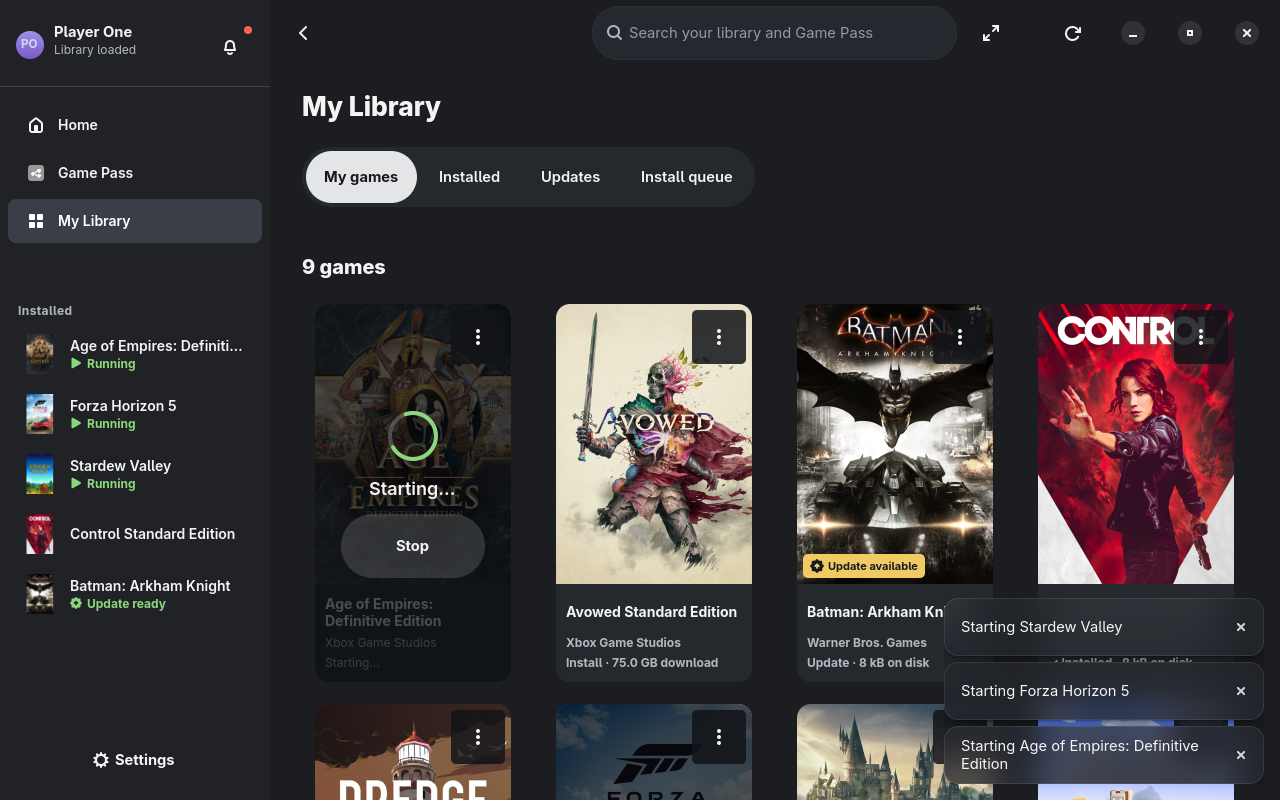
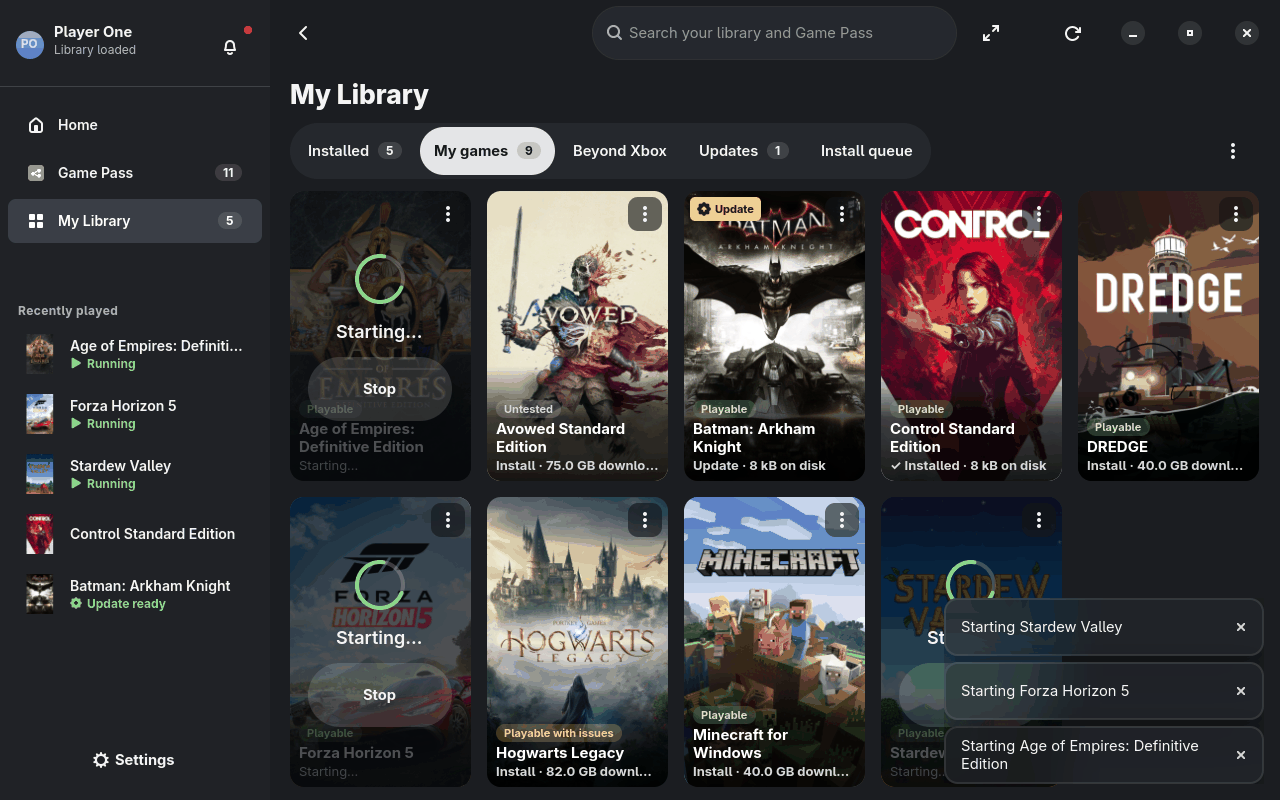
Prepare Ferestre 0.1.27 with runtime 11.0.20261124.1
Release notes, docs and new screenshots. The details no longer repeat the
compatibility label and summary as chips, which stretched them all.

Claude-Session: https://claude.ai/code/session_01MxW3bUCA84YQbRn5qddvXz

diff --git a/tools/readme-screenshots.py b/tools/readme-screenshots.py
@@ -18,8 +18,11 @@ What it does
         compact-sidebar.png    the icon rail with the account menu open
         home-ultrawide.png     Home at 3440x1000 (a 32:9-style wide window)
         already-running.png    the "<title> is already running" dialog
+        library.png            My Library with each game's compatibility label
+        game-details.png       a game's details, with its known issues
+        launch-settings.png    the launch settings editor
 
-    All are 1280x800 except home-ultrawide.png.
+    All are 1280x800 except home-ultrawide.png and the cropped game-details.png.
 
 How to run it
     export PATH=$HOME/.cargo/bin:$PATH
@@ -104,6 +107,7 @@ GAMEPASS = ["9MSVPJCHHRPR", "9PJTHRNVH62H", "C2KDNLT2H7DM", "9PP5G1F0C2B6", "9N6
 DOWNLOAD_GB = {"9MSVPJCHHRPR": 75, "9MT5NJ5W7B8Z": 82, "9NNX1VVR3KNQ": 118}
 RUNNING = "9PL1J8PJKH29"  # Control, for the running, Stop and already-running shots
 INSTALL = "9MSVPJCHHRPR"  # Avowed, for the install dialog
+DETAILS = "9MT5NJ5W7B8Z"  # Hogwarts Legacy, which plays with issues
 FOCUS = "9NJWTJSVGVLJ"  # Age of Empires, the focused card in fullscreen
 
 SHOTS = {
@@ -117,7 +121,14 @@ SHOTS = {
     "compact-sidebar": (1280, 800, {"compact": True}, False),
     "home-ultrawide": (3440, 1000, {}, False),
     "already-running": (1280, 800, {}, False),
+    "library": (1280, 800, {}, False),
+    "game-details": (1280, 800, {}, False),
+    "launch-settings": (1280, 800, {}, False),
 }
+
+# The virtual screen has a desktop monitor's size. Fullscreen pictures are of a
+# handheld, whose layout follows the screen's width in millimetres.
+HANDHELD_SCREEN = "int gdk_monitor_get_width_mm(void *monitor) { (void)monitor; return 155; }\n"
 
 CLIENT = r'''#!/usr/bin/env python3
 # Fake xodus-cli: one synthetic signed-in account, nothing real.
@@ -299,6 +310,9 @@ def prepare_scratch(repo, args):
     (scratch / "template/.fixture/lib").mkdir()
     subprocess.run(["cc", "-shared", "-fPIC", str(scratch / "sdl.c"), "-o",
                     str(scratch / "template/.fixture/lib/libSDL2-2.0.so.0")], check=True)
+    write(scratch / "screen.c", HANDHELD_SCREEN)
+    subprocess.run(["cc", "-shared", "-fPIC", str(scratch / "screen.c"), "-o",
+                    str(scratch / "template/.fixture/lib/handheld-screen.so")], check=True)
     write(scratch / "passwd", "root:x:0:0:root:/root:/bin/sh\n"
           f"player:x:{os.getuid()}:{os.getgid()}:Player One:{DEMO_HOME}:/bin/sh\n"
           "nobody:x:65534:65534:Nobody:/:/usr/bin/nologin\n")
@@ -504,6 +518,7 @@ class Scene:
         env["NO_PROXY"] = env["no_proxy"] = ""
         if SHOTS[self.shot][3]:
             env["LD_LIBRARY_PATH"] = str(f / "lib")
+            env["LD_PRELOAD"] = str(f / "lib/handheld-screen.so")
             env["FERESTRE_TEST_PAD_FILE"] = str(f / "pad")
         return env
 
@@ -512,7 +527,7 @@ class Scene:
         (self.fixture / "pad-next").write_bytes(struct.pack("<Hhhhh2xii", buttons, 0, 0, 0, 0, kind, 1))
         (self.fixture / "pad-next").replace(self.fixture / "pad")
 
-    def capture(self, wait=1.5):
+    def capture(self, wait=1.5, crop=None):
         """The virtual screen, through KWin's ScreenShot2."""
         time.sleep(wait)
         import gi
@@ -549,7 +564,10 @@ class Scene:
         raw = "BGRA" if meta.get("format", 4) in (4, 5, 6) else "RGBA"
         image = Image.frombuffer("RGBA", (meta["width"], meta["height"]), data, "raw", raw, meta["stride"], 1)
         out = self.scratch / "out" / f"{self.shot}.png"
-        image.convert("RGB").save(out)
+        image = image.convert("RGB")
+        if crop:
+            image = image.crop(crop)
+        image.save(out)
         print("captured", out.name, meta["width"], meta["height"], flush=True)
 
     def start(self):
@@ -575,8 +593,8 @@ class Scene:
         s = self.s
         if SHOTS[self.shot][2].get("fullscreen"):
             # Fullscreen has a row of section buttons instead of the sidebar.
-            s.click(self.wait(lambda r: next(iter(s.find_all(r, role="button", name="My Library")), None),
-                              "the My Library tab"))
+            s.click(self.wait(lambda r: next(iter(s.find_all(r, role="button", name="My games")), None),
+                              "the My games tab"))
         else:
             s.select_in_list(self.frame, "My Library")
         self.wait(lambda _: s.row_button(self.frame, self.names[UPDATE], "Update"), "the library to settle")
@@ -613,6 +631,7 @@ class Scene:
     def scene_library_handheld(self):
         self.library()
         time.sleep(2)
+        self.dismiss_notifications()
         self.driver().seek(f"{self.names[FOCUS]} · Play")
         self.capture(2)
 
@@ -665,7 +684,10 @@ class Scene:
         self.library()
         driver = self.driver()
         driver.seek(f"{name} · Install")
-        driver.press(0, lambda root: any(t.startswith(f"Install {name}") for t in s.texts(root)),
+        # Its details open first, with Install selected.
+        driver.press(0, lambda root: s.find_all(root, role="button", name=f"Install {name}"), "the details")
+        time.sleep(2)
+        driver.press(0, lambda root: f"Install {name}?" in s.texts(root),
                      "the install dialog")
         self.capture(3)
 
@@ -683,7 +705,7 @@ class Scene:
                     break
                 except s.Failure:
                     pass
-        self.capture(1.5)
+        self.capture(4)  # past the start animation, which covers the window
 
     def alerts(self):
         s, found = self.s, []
@@ -727,6 +749,29 @@ class Scene:
         else:
             raise s.Failure("no already-running dialog")
         self.capture(2.5)
+
+
+    def scene_library(self):
+        self.library()
+        time.sleep(2)
+        self.dismiss_notifications()
+        self.capture(2)
+
+    def menu_item(self, pid, item):
+        s = self.s
+        self.library()
+        s.click_named(self.frame, f"More actions for {self.names[pid]}")
+        time.sleep(1)
+        s.click_named(self.app, item)
+
+    def scene_game_details(self):
+        self.menu_item(DETAILS, "Game details")
+        # Without the network the catalog's part of the page is an error line.
+        self.capture(5, crop=(170, 20, 1110, 570))
+
+    def scene_launch_settings(self):
+        self.menu_item(RUNNING, "Edit launch settings")
+        self.capture(3)
 
 
 def main():

diff --git a/crates/ferestre-gui/src/details_ui.rs b/crates/ferestre-gui/src/details_ui.rs
@@ -220,7 +220,12 @@ pub fn open(
 
     // "v1 · 2 GB · Playable", then a paragraph about the runtime.
     let (state, runtime) = known.split_once("\n\n").unwrap_or((known, ""));
-    let chips: Vec<String> = state.split("  ·  ").map(str::to_string).collect();
+    // The compatibility section below says these in full.
+    let chips: Vec<String> = state
+        .split("  ·  ")
+        .filter(|chip| *chip != report.label() && *chip != report.summary)
+        .map(str::to_string)
+        .collect();
     overview.append(&chip_box(&chips));
     if !runtime.is_empty() {
         let line = gtk::Box::new(gtk::Orientation::Horizontal, 8);

diff --git a/README.md b/README.md
@@ -6,23 +6,29 @@ Play compatible **Xbox PC and Microsoft Store games on Linux** using your Micros
 
 <br clear="left">
 
-**[Download the AppImage](https://github.com/icex/ferestre/releases/download/v0.1.26/ferestre-0.1.26-x86_64.AppImage)** · [Compatible games](docs/COMPATIBILITY.md#the-matrix) · [Quick start](#quick-start) · [Report a problem](https://github.com/icex/ferestre/issues)
+**[Download the AppImage](https://github.com/icex/ferestre/releases/download/v0.1.27/ferestre-0.1.27-x86_64.AppImage)** · [Compatible games](docs/COMPATIBILITY.md#the-matrix) · [Quick start](#quick-start) · [Report a problem](https://github.com/icex/ferestre/issues)
 
 ![Ferestre's Home: a featured-game carousel, quick links and a Jump back in shelf, with recent games and their status in the sidebar](docs/screenshots/home.png)
 
 <table>
   <tr>
-    <td width="50%"><img src="docs/screenshots/library-handheld.png" alt="My Library in the fullscreen handheld layout, with Xbox controller hints and an Update available badge"><br><strong>Play from the couch with a controller</strong></td>
+    <td width="50%"><img src="docs/screenshots/library-handheld.png" alt="My games in the fullscreen handheld layout, with a top bar of tabs, compatibility labels, an Update badge and Xbox controller hints"><br><strong>Play from the couch with a controller</strong></td>
     <td width="50%"><img src="docs/screenshots/running-game.png" alt="A running game's card with Resume and Stop"><br><strong>Switch between running games</strong></td>
   </tr>
   <tr>
-    <td width="50%"><img src="docs/screenshots/install-game.png" alt="The install dialog with the download size, library folder and free space, over the blurred library"><br><strong>Choose where each game installs</strong></td>
-    <td width="50%"><img src="docs/screenshots/notifications.png" alt="Three notifications stacked in the corner of the window"><br><strong>See every result at once</strong></td>
+    <td width="50%"><img src="docs/screenshots/install-game.png" alt="The install dialog with the download size, library folder and free space"><br><strong>Choose where each game installs</strong></td>
+    <td width="50%"><img src="docs/screenshots/notifications.png" alt="My Library with three games starting and notifications stacked in the corner of the window"><br><strong>See every result at once</strong></td>
+  </tr>
+  <tr>
+    <td width="50%"><img src="docs/screenshots/library.png" alt="My Library with a compatibility label on every game: Playable, Playable with issues or Untested"><br><strong>See how well each game runs</strong></td>
+    <td width="50%"><img src="docs/screenshots/game-details.png" alt="A game's details with its compatibility label and its known issues as a warning"><br><strong>Know the issues before you install</strong></td>
   </tr>
 </table>
 
 <details>
-<summary>More screenshots: Stop confirmation, compact sidebar, a game already running, ultrawide</summary>
+<summary>More screenshots: launch settings, Stop confirmation, compact sidebar, a game already running, ultrawide</summary>
+
+![The launch settings editor and its tabs](docs/screenshots/launch-settings.png)
 
 ![In-app Stop confirmation with Cancel selected by the controller](docs/screenshots/stop-confirmation.png)
 
@@ -71,7 +77,7 @@ In **Accounts**, choose the Microsoft account supplying purchases/Game Pass (**S
 2. Choose a game, select **Install**, choose a library folder and confirm.
 3. Follow progress in **My Library → Install queue**, or with the **Downloads** button in the sidebar. Choose **Play** when installation finishes.
 
-Check the [compatibility list](docs/COMPATIBILITY.md#the-matrix) before a large download. Ferestre supports compatible **GDK/MSIXVC** games; many other Store apps use UWP/Appx/Msix formats that are currently unsupported. Game Pass access depends on your subscription, region and the title still being included. Microsoft checks the licence when installing or launching.
+Check the label on the game's tile (**Playable**, **Playable with issues**, **Untested** or **Not playable**) before a large download; **Game details** says what was tested and lists known issues. The [compatibility list](docs/COMPATIBILITY.md#the-matrix) has every tested game. Ferestre supports compatible **GDK/MSIXVC** games; many other Store apps use UWP/Appx/Msix formats that are currently unsupported. Game Pass access depends on your subscription, region and the title still being included. Microsoft checks the licence when installing or launching.
 
 ## Quick guides
 
@@ -131,7 +137,7 @@ Choose a suitable rendering resolution in the game. The runtime includes 4K and 
 
 ### Change a game's launch settings
 
-Open the game's **More actions → Edit launch settings**. Settings such as native Wayland, Gamescope, HDR, the performance profile and the runtime's compatibility switches appear as switches and menus, each with a line saying what it does; other environment variables can be added below them. Your changes are saved as your own copy of the game's recipe. **Reset to defaults** sets that copy aside as a `.toml.bak` file and returns the game to the settings Ferestre ships or detects.
+Open the game's **More actions → Edit launch settings**. The tabs hold native Wayland, Gamescope, HDR, the performance profile, compatibility and upscaling switches and the runtime, each with a line saying what it does; other environment variables can be added below them. Your changes are saved as your own copy of the game's recipe. **Reset to defaults** sets that copy aside as a `.toml.bak` file and returns the game to the settings Ferestre ships or detects.
 
 ### Move a game or add it to Steam
 
@@ -208,7 +214,7 @@ Use `./ferestre.AppImage --help` for all commands. `run` refuses to start a game
 | [Releasing](docs/RELEASING.md) | Release builds and signing |
 | [Debugging notes](notes/) | Technical investigations |
 
-Current releases: **[Ferestre 0.1.26](https://github.com/icex/ferestre/releases/tag/v0.1.26)** and **[runtime 11.0.20261122.2](https://github.com/icex/ferestre/releases/tag/runtime-11.0.20261122.2)**. Read the [0.1.26](docs/RELEASE-0.1.26.md) and [0.1.25](docs/RELEASE-0.1.25.md) release notes for tested scope.
+Current releases: **[Ferestre 0.1.27](https://github.com/icex/ferestre/releases/tag/v0.1.27)** and **[runtime 11.0.20261124.1](https://github.com/icex/ferestre/releases/tag/runtime-11.0.20261124.1)**. Read the [0.1.27](docs/RELEASE-0.1.27.md) and [0.1.26](docs/RELEASE-0.1.26.md) release notes for tested scope.
 
 ## About the project
 

diff --git a/docs/RELEASE-0.1.27.md b/docs/RELEASE-0.1.27.md
@@ -1,0 +1,39 @@
+# Ferestre 0.1.27
+
+Pairs with runtime 11.0.20261124.1. **Settings → Choose default runtime** selects it once it is installed. A game with its own runtime choice keeps it: set it back to the default in **Edit launch settings → Proton** to get this runtime's fixes.
+
+## Steam games
+
+- **Import from Steam** also lists the games Steam installed. **Play** asks Steam to start them, so Steam's Proton, launch options, DRM and cloud saves stay as they are. Steam's files are only read.
+- A Steam shortcut to a script or other Linux program of your own is imported too, and Steam starts it.
+- Neural rendering (experimental) works with games Steam starts: the DLL override goes into the game's own Wine prefix, for that program alone, and is put back when it is turned off. See [Neural rendering](NEURAL-RENDERING.md).
+
+## Compatibility labels
+
+- Every tile says how well the game runs: **Playable**, **Playable with issues**, **Untested** or **Not playable**. A game's details show the same label, what was tested and when, and its known issues as a warning.
+- Forza Horizon 6 was checked again on this runtime: sign-in, Continue, the in-game store's lists, the online tab and saving. Joining an online race and purchases were not tried.
+- Halo Infinite and Gears of War: E-Day are listed as playable: their earlier intermittent problems were reported resolved by the player, and were not retested.
+- Still with issues: Death Stranding Director's Cut (online features are not available; the opening plays offline) and Hogwarts Legacy (a first launch can close while it prepares shaders; start it again).
+
+## The window
+
+- Launch settings are tabs: display, compatibility, upscaling, Proton with the runtime, variables and neural rendering. They offer Proton's upscaling and compatibility flags; one the game's runtime does not read says so.
+- Game details have tabs, pictures and links. A title that is not installed opens its details, which end in a large Install button.
+- Lists scroll on instead of paging, and tiles size to fill the page. My Library opens on Installed, with counts on its tabs.
+- Small screens get compact tiles and, in fullscreen, a top bar of tabs; larger screens keep the sidebar. Controller hints show only while a controller is in use.
+- Featured titles follow the PC Game Pass "Most popular" list. Installed Game Pass titles show Play rather than Install.
+- The window opens at the size it was left at. Starting a game is animated.
+
+## Fixes
+
+- Sign-in tokens for title services are matched whether or not the endpoint path begins with a slash, with the Store account and with a separate Player account. Minecraft Dungeons II reaches its online hero creation with different Store and Player accounts; joining another player was not tested.
+- On a machine whose CPU numbering has gaps (offline cores), games get a dense CPU layout. From MW4-Proton.
+- Reset to defaults is no longer offered for a local game, whose settings are the game; it used to make the game vanish from the library.
+- A game's neural rendering route and network are kept when it is turned off and on again. OptiScaler's menu opens with **Home**.
+
+## Runtime 11.0.20261124.1
+
+- Wine's Wayland driver keeps a top-level window's surface while its client surface needs it. Cyberpunk 2077 with native Wayland was confirmed by the player.
+- DXVK has GE-Proton11-11's DXGI fixes (fullscreen on focus loss, HDR detection and output state, D3D12 fullscreen resizes, swap chain backpressure, the layered overlay) and a DXGI memory-budget cap from MW4-Proton.
+- vkd3d-proton no longer reserves a 4 MiB slot for each small aligned heap. From MW4-Proton.
+- Call of Duty: Modern Warfare 4 and Battlefield 6 were not tested on this runtime.

diff --git a/docs/DOWNLOADS.md b/docs/DOWNLOADS.md
@@ -11,14 +11,16 @@ scroll buttons), and featured cards. Each part shows only when it has something
 to show. A search, or fullscreen, shows the plain grid instead. Game Pass has
 the same carousel.
 
-My Library has four tabs: My games, Installed, Updates and Install queue. They
+My Library has five tabs: Installed, My games, Beyond Xbox, Updates and Install queue. They
 share one header and search field, so it stays in place when you change tabs.
 Library pages use large cover cards and the full window width; pressing a card
-starts its primary action. The always-visible More menu includes Launch, Game
+starts its primary action, or opens the details of a title that is not installed. The always-visible More menu includes Launch, Game
 details (with the Store page, the description and what Microsoft's catalog says),
 Edit launch settings and other actions. Installed games with a confirmed update
 show an Update available badge on their cover, including while running; current
-installs and unknown update checks show no badge. The search is a pill centred
+installs and unknown update checks show no badge. Every tile also says how well
+the game runs: Playable, Playable with issues, Untested or Not playable; Game
+details adds what was tested, when, and the known issues. The search is a pill centred
 above the page and looks through your library and Game Pass.
 
 The sidebar has Home, Game Pass and My Library, then the titles played recently,

diff --git a/docs/COMPATIBILITY.md b/docs/COMPATIBILITY.md
@@ -35,7 +35,7 @@ real contribution even — especially — when the answer is that it does not ru
 **Before you paste anything: a session log contains your gamertag, your XUID and
 your save-folder ids.** See [Reporting a title](#reporting-a-title) below.
 
-Current launcher: [0.1.26](RELEASE-0.1.26.md), using runtime **11.0.20261122.2**. The [0.1.26 notes](RELEASE-0.1.26.md) describe the runtime fixes behind Hogwarts Legacy, Batman: Arkham Knight, Dead by Daylight and Death Stranding Director's Cut; the detailed [0.1.16 qualification](RELEASE-0.1.16.md) describes earlier launcher and controller fixture coverage. The title-specific results and dates below come from the recipes; they are not refreshed merely because the launcher changes.
+Current launcher: [0.1.27](RELEASE-0.1.27.md), using runtime **11.0.20261124.1**. The launcher shows these states on its tiles and in Game details. The [0.1.27 notes](RELEASE-0.1.27.md) say what was and was not tested on that runtime; the [0.1.26 notes](RELEASE-0.1.26.md) describe the runtime fixes behind Hogwarts Legacy, Batman: Arkham Knight, Dead by Daylight and Death Stranding Director's Cut; the detailed [0.1.16 qualification](RELEASE-0.1.16.md) describes earlier launcher and controller fixture coverage. The title-specific results and dates below come from the recipes; they are not refreshed merely because the launcher changes.
 
 ## The matrix
 

diff --git a/docs/RECIPES.md b/docs/RECIPES.md
@@ -226,7 +226,7 @@ found. The confirmed restoration used a read-only source backup and a local
 copy, not an automatic import feature. No account-specific folder name is
 needed in this recipe.
 
-### Halo Infinite — **playable; intermittent offline display unresolved**
+### Halo Infinite — **playable**
 
 Use launcher 0.1.5 with runtime 11.0.20261010.1, a licensed Store/Game Pass
 installation and the shipped `9PP5G1F0C2B6.toml` recipe. Keep the original
@@ -239,7 +239,8 @@ launch and its campaign handoff; the encrypted installation stays intact.
 The launch inherits its package manifest into child processes.
 
 Campaign, Academy and multiplayer have live confirmation, as does local saving.
-Intermittent offline display is unresolved. Cloud saves and purchases are not
+The earlier intermittent offline display was reported resolved by the player on
+2026-11-24; it was not retested. Cloud saves and purchases are not
 qualified. A Store/Xbox account mismatch dialog can be dismissed to play.
 Remove an older personal Halo recipe override, or update it to match the shipped
 recipe, since personal overrides take precedence (see Troubleshooting).

diff --git a/docs/ROADMAP.md b/docs/ROADMAP.md
@@ -6,6 +6,15 @@ for Bedrock on Android, for Microsoft Store titles on Linux.
 
 ## Current qualification
 
+Release 0.1.27 pairs with runtime 11.0.20261124.1. Games Steam installed join
+the library and start through Steam, with experimental neural rendering; every
+tile and game details page shows how well the title runs; launch settings and
+details are tabs, and handhelds get their own layout. The client service
+matches endpoint paths with or without a leading slash. The runtime builds DXVK from a
+fork with GE-Proton's DXGI fixes, caps the reported video memory budget, and
+keeps a Wayland top-level surface its client surface still needs. See
+[release qualification](RELEASE-0.1.27.md).
+
 Release 0.1.26 pairs with runtime 11.0.20261122.2, the first release that
 publishes it; 0.1.24 was never published and its changes shipped in 0.1.25.
 0.1.25 added local games (added by hand or imported from Steam's non-Steam

diff --git a/docs/TESTING.md b/docs/TESTING.md
@@ -137,7 +137,9 @@ synthetic "Player One". The GUI runs in
 a private virtual KWin session with the default renderer, so the dialog blur
 appears as it does for users. Artwork is public Store art copied from
 `~/.cache/ferestre/catalog`, stripped of everything but product metadata. The
-script refuses to start the GUI if the real home folder is reachable.
+script refuses to start the GUI if the real home folder is reachable. The
+fullscreen pictures preload a small library that reports a handheld's screen
+width, since the virtual screen has a desktop monitor's.
 
 ```sh
 CARGO_TARGET_DIR=/var/tmp/ferestre-readme-target nice cargo build --release --offline -p ferestre-gui

diff --git a/titles/SCHEMA.md b/titles/SCHEMA.md
@@ -144,7 +144,7 @@ pedantic about.
 
 | key | type | | meaning |
 |---|---|---|---|
-| `symptom` | string | required | What the person sees. |
+| `symptom` | string | required | What the person sees. With `fix`, shown in the game's details: as a warning for `playable-with-issues`, `menus` and `broken`, folded away for `playable`. |
 | `cause` | string | required | |
 | `fix` | string | required | Say "none known" if there is none. |
 | `log-match` | string | optional | A regular expression that identifies this issue in a launch log, so a failed run can name itself. |
